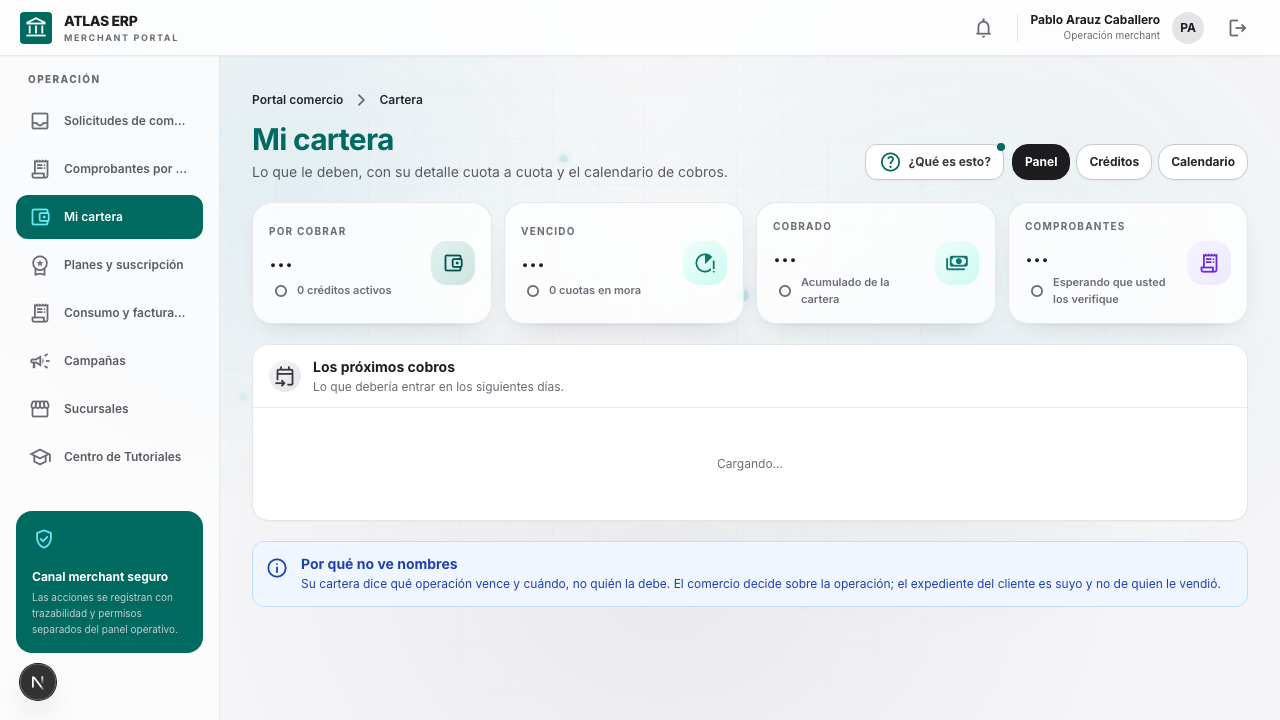
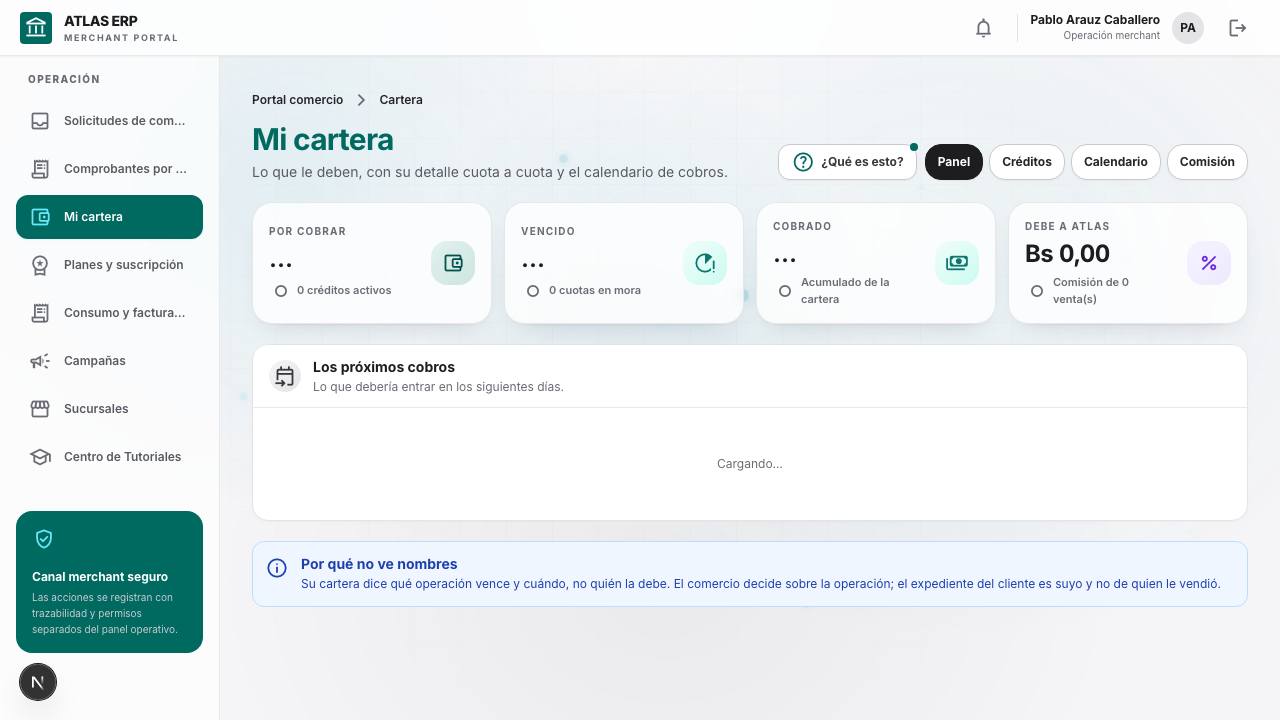
feat(comision): se pacta en el alta y el comercio ve lo que debe
La comision se configura DENTRO del onboarding, no en una pantalla suelta: es
parte de lo que se acuerda con el comercio antes de que opere. Activarlo sin
haberla pactado deja la primera venta cobrando lo que hubiera por defecto, y esa
conversacion ya no se puede tener hacia atras.

Las tres dimensiones son opcionales y ahi esta toda la flexibilidad: sin ninguna es
la tarifa base; con categoria cobra distinto la electronica que la farmacia; con
sucursal distingue una cara de una barata; con segmento de riesgo cobra mas por el
credito que mas riesgo trae. Se combinan libremente y gana la mas especifica.

Piso y techo con su porque a la vista: una venta de Bs 20 al 3 % deja Bs 0,60, que
no paga ni procesarla; una de Bs 50.000 al 3 % son Bs 1.500 que ningun comercio
acepta sin limite.

En el portal del comercio, «Mi cartera» gana la vista Comision: cuanto se le cobro
en total, cuanto DEBE —lo que sigue abierto— y el detalle venta a venta. La cuarta
tarjeta del resumen pasa a ser «Debe a Atlas», que es la cifra que mas pregunta.

Dos pruebas nuevas contra el backend real y sus capturas. Verificado con datos
reales: Bs 52,50 sobre una venta de Bs 1.500, que es el 3,5 % pactado.

Changed region(s): [[0.625, 0.1833, 0.9688, 0.275], [0.7812, 0.3056, 0.9062, 0.4278], [0.9375, 0.3361, 0.9688, 0.3972]]

diff --git a/components/screens/MdrRulesPanel.tsx b/components/screens/MdrRulesPanel.tsx
@@ -1,0 +1,152 @@
+'use client';
+
+import { useCallback, useEffect, useState } from 'react';
+import { AtlasButton } from '@/components/atlas/AtlasButton';
+import { FormField } from '@/components/atlas/FormField';
+import { InlineNotice } from '@/components/atlas/InlineNotice';
+import { Panel } from '@/components/atlas/Panel';
+import { StatusPill } from '@/components/atlas/StatusPill';
+import { useAtlasMutation } from '@/hooks/useAtlasMutation';
+import { useOptions } from '@/hooks/useOptions';
+import { b2bService } from '@/services/b2bService';
+import { merchantCategoryOptions, riskTierOptions } from '@/lib/catalogs';
+import { loadContracts2 } from '@/services/optionLoaders';
+import type { JsonObject, ResourceRow } from '@/services/types';
+
+const CUALQUIERA = { label: '— Cualquiera —', value: '' };
+
+/**
+ * Cuánto le cobra Atlas al comercio por cada venta, y en qué casos.
+ *
+ * Se configura AQUÍ, en el alta, porque es parte de lo que se pacta con el comercio antes de que
+ * opere: activarlo sin haber acordado la comisión deja la primera venta cobrando lo que hubiera por
+ * defecto, y esa conversación ya no se puede tener hacia atrás.
+ *
+ * Las tres dimensiones son opcionales y ahí está toda la flexibilidad: una regla sin ninguna es la
+ * tarifa base; con categoría cobra distinto la electrónica que la farmacia; con sucursal distingue
+ * una cara de una barata; con segmento de riesgo cobra más por el crédito que más riesgo trae. Se
+ * combinan libremente y **gana la más específica**, que es como las elige el motor al llegar la
+ * venta: por eso se listan en ese mismo orden y no por fecha.
+ */
+export function MdrRulesPanel() {
+  const contratos = useOptions(loadContracts2);
+  const [contractVersionId, setContractVersionId] = useState('');
+  const [reglas, setReglas] = useState<ResourceRow[]>([]);
+  const [cargando, setCargando] = useState(false);
+  const [error, setError] = useState<string | null>(null);
+
+  const crear = useAtlasMutation(useCallback((body: JsonObject) => b2bService.createMdrRule(body), []));
+  const cambiar = useAtlasMutation(useCallback(({ id, body }: { id: string; body: JsonObject }) => b2bService.updateMdrRule(id, body), []));
+
+  const recargar = useCallback(async (versionId: string) => {
+    if (!versionId) { setReglas([]); return; }
+    setCargando(true);
+    try {
+      setReglas(await b2bService.listMdrRules(versionId));
+      setError(null);
+    } catch (fallo) {
+      setError(fallo instanceof Error ? fallo.message : 'No fue posible leer las reglas.');
+    } finally {
+      setCargando(false);
+    }
+  }, []);
+
+  useEffect(() => { void recargar(contractVersionId); }, [contractVersionId, recargar]);
+
+  async function agregar(evento: React.FormEvent<HTMLFormElement>) {
+    evento.preventDefault();
+    const form = new FormData(evento.currentTarget);
+    const opcional = (clave: string) => String(form.get(clave) ?? '').trim() || undefined;
+    const numero = (clave: string) => {
+      const bruto = String(form.get(clave) ?? '').trim();
+      return bruto === '' ? undefined : Number(bruto);
+    };
+    try {
+      await crear.execute({
+        contractVersionId,
+        ratePercent: Number(form.get('ratePercent') ?? 0),
+        productCategory: opcional('productCategory'),
+        riskSegment: opcional('riskSegment'),
+        minFeeAmount: numero('minFeeAmount'),
+        maxFeeAmount: numero('maxFeeAmount'),
+      });
+      evento.currentTarget.reset();
+      await recargar(contractVersionId);
+    } catch { /* mostrado abajo */ }
+  }
+
+  async function alternar(regla: ResourceRow) {
+    try {
+      await cambiar.execute({ id: String(regla.id), body: { isActive: !regla.isActive } });
+      await recargar(contractVersionId);
+    } catch { /* mostrado abajo */ }
+  }
+
+  return (
+    <Panel
+      data-tutorial-id="mdr-reglas"
+      title="Comisión por venta (MDR)"
+      description="Lo que Atlas cobra al comercio por cada venta. Se acuerda en el alta, antes de que opere."
+      icon="percent"
+    >
+      <FormField
+        kind="select"
+        label="Versión contractual"
+        name="contractVersionId"
+        value={contractVersionId}
+        onChange={(evento) => setContractVersionId(evento.target.value)}
+        options={[{ label: contratos.length ? '— Elija el contrato —' : '— No hay contratos —', value: '' }, ...contratos]}
+        hint="La comisión cuelga de la versión del contrato: cambiarla es una versión nueva, no una edición."
+      />
+
+      {error ? <InlineNotice className="mt-3" tone="danger">{error}</InlineNotice> : null}
+
+      {contractVersionId ? (
+        <>
+          <form onSubmit={agregar} className="mt-4 grid gap-3 rounded-md bg-slate-50 p-3 md:grid-cols-3">
+            <FormField label="Comisión (%)" name="ratePercent" type="number" step="0.01" min="0" max="100" required placeholder="3.50" />
+            <FormField kind="select" label="Categoría de producto" name="productCategory" options={[CUALQUIERA, ...merchantCategoryOptions]} hint="Vacío: aplica a todas." />
+            <FormField kind="select" label="Segmento de riesgo" name="riskSegment" options={[CUALQUIERA, ...riskTierOptions]} hint="Vacío: aplica a todos." />
+            <FormField label="Piso (Bs)" name="minFeeAmount" type="number" step="0.01" min="0" hint="Una venta de Bs 20 al 3 % deja Bs 0,60." />
+            <FormField label="Techo (Bs)" name="maxFeeAmount" type="number" step="0.01" min="0" hint="Evita comisiones desproporcionadas en ventas grandes." />
+            <div className="flex items-end">
+              <AtlasButton type="submit" icon="add" loading={crear.isLoading} className="w-full">Agregar regla</AtlasButton>
+            </div>
+            {crear.error ? <div className="md:col-span-3"><InlineNotice tone="danger">{crear.error}</InlineNotice></div> : null}
+          </form>
+
+          <div className="mt-4">
+            {cargando ? <p className="py-6 text-center text-xs text-slate-500">Cargando…</p>
+              : reglas.length === 0 ? <p className="py-6 text-center text-xs text-slate-500">Sin reglas: se usará el término MDR del contrato.</p>
+              : (
+                <div className="table-scroll rounded-lg border border-slate-200">
+                  <table className="w-full min-w-[720px] text-left text-xs">
+                    <thead className="bg-slate-50 text-[10px] uppercase text-slate-500"><tr><th className="p-2.5">Comisión</th><th className="p-2.5">Categoría</th><th className="p-2.5">Segmento</th><th className="p-2.5 text-right">Piso</th><th className="p-2.5 text-right">Techo</th><th className="p-2.5">Estado</th><th className="p-2.5" /></tr></thead>
+                    <tbody className="divide-y divide-slate-100">
+                      {reglas.map((regla) => (
+                        <tr key={String(regla.id)} className={regla.isActive ? '' : 'opacity-50'}>
+                          <td className="p-2.5 font-extrabold">{Number(regla.ratePercent).toFixed(2)} %</td>
+                          <td className="p-2.5 text-slate-600">{String(regla.productCategory ?? 'Cualquiera')}</td>
+                          <td className="p-2.5 text-slate-600">{String(regla.riskSegment ?? 'Cualquiera')}</td>
+                          <td className="p-2.5 text-right text-slate-600">{regla.minFeeAmount ? `Bs ${Number(regla.minFeeAmount).toFixed(2)}` : '—'}</td>
+                          <td className="p-2.5 text-right text-slate-600">{regla.maxFeeAmount ? `Bs ${Number(regla.maxFeeAmount).toFixed(2)}` : '—'}</td>
+                          <td className="p-2.5"><StatusPill tone={regla.isActive ? 'success' : 'neutral'}>{regla.isActive ? 'Activa' : 'Inactiva'}</StatusPill></td>
+                          <td className="p-2.5 text-right"><AtlasButton variant="secondary" onClick={() => void alternar(regla)}>{regla.isActive ? 'Desactivar' : 'Activar'}</AtlasButton></td>
+                        </tr>
+                      ))}
+                    </tbody>
+                  </table>
+                </div>
+              )}
+          </div>
+
+          <InlineNotice className="mt-4" tone="info" title="Gana la más específica">
+            Se listan en el orden en que el motor las elige al llegar una venta: primero las que
+            distinguen sucursal, luego categoría, luego segmento de riesgo. Una regla general no
+            anula a una segmentada — la segmentada gana.
+          </InlineNotice>
+        </>
+      ) : null}
+    </Panel>
+  );
+}

diff --git a/components/screens/MerchantPortfolioScreen.tsx b/components/screens/MerchantPortfolioScreen.tsx
@@ -10,9 +10,10 @@ import { StatusPill } from '@/components/atlas/StatusPill';
 import { WorkspaceHeader } from '@/components/atlas/WorkspaceHeader';
 import { formatBob } from '@/lib/formatters';
 import { merchantCreditService } from '@/services/merchantCreditService';
+import { portalService } from '@/services/portalService';
 import type { Cartera, CreditoDeCartera } from '@/services/merchantCreditService';
 
-type Vista = 'panel' | 'creditos' | 'calendario';
+type Vista = 'panel' | 'creditos' | 'calendario' | 'comision';
 
 const fecha = (valor: string) => new Date(`${valor}T12:00:00`).toLocaleDateString('es-BO', { weekday: 'short', day: '2-digit', month: 'short' });
 
@@ -35,6 +36,17 @@ export function MerchantPortfolioScreen() {
   const [error, setError] = useState<string | null>(null);
   const [vista, setVista] = useState<Vista>('panel');
   const [abierto, setAbierto] = useState<string | null>(null);
+  /* Lo que el comercio le debe a Atlas por usar el servicio: la comision de cada venta. */
+  const [comision, setComision] = useState<Awaited<ReturnType<typeof portalService.commissions>> | null>(null);
+
+  useEffect(() => {
+    let cancelado = false;
+    portalService
+      .commissions()
+      .then((resultado) => { if (!cancelado) setComision(resultado); })
+      .catch(() => { if (!cancelado) setComision(null); });
+    return () => { cancelado = true; };
+  }, []);
 
   const cargar = useCallback(async (partnerId: string) => {
     setCargando(true);
@@ -78,9 +90,9 @@ export function MerchantPortfolioScreen() {
         description={`Lo que le deben${nombre ? ` a ${nombre}` : ''}, con su detalle cuota a cuota y el calendario de cobros.`}
         actions={
           <div className="flex gap-1.5">
-            {(['panel', 'creditos', 'calendario'] as Vista[]).map((opcion) => (
+            {(['panel', 'creditos', 'calendario', 'comision'] as Vista[]).map((opcion) => (
               <AtlasButton key={opcion} variant={vista === opcion ? 'primary' : 'secondary'} onClick={() => setVista(opcion)}>
-                {opcion === 'panel' ? 'Panel' : opcion === 'creditos' ? 'Créditos' : 'Calendario'}
+                {opcion === 'panel' ? 'Panel' : opcion === 'creditos' ? 'Créditos' : opcion === 'calendario' ? 'Calendario' : 'Comisión'}
               </AtlasButton>
             ))}
           </div>
@@ -93,7 +105,7 @@ export function MerchantPortfolioScreen() {
         <MetricCard label="Por cobrar" value={cargando ? '…' : formatBob(Number(resumen?.outstanding ?? 0))} detail={`${resumen?.activeCredits ?? 0} créditos activos`} icon="account_balance_wallet" />
         <MetricCard label="Vencido" value={cargando ? '…' : formatBob(Number(resumen?.overdueAmount ?? 0))} detail={`${resumen?.overdueInstallments ?? 0} cuotas en mora`} icon="running_with_errors" tone={Number(resumen?.overdueAmount ?? 0) > 0 ? 'amber' : 'teal'} />
         <MetricCard label="Cobrado" value={cargando ? '…' : formatBob(Number(resumen?.collected ?? 0))} detail="Acumulado de la cartera" icon="payments" tone="teal" />
-        <MetricCard label="Comprobantes" value={cargando ? '…' : (resumen?.proofsAwaitingVerification ?? 0)} detail="Esperando que usted los verifique" icon="receipt_long" tone="purple" />
+        <MetricCard label="Debe a Atlas" value={formatBob(Number(comision?.summary.owedToAtlas ?? 0))} detail={`Comisión de ${comision?.summary.salesCharged ?? 0} venta(s)`} icon="percent" tone="purple" />
       </div>
 
       {vista === 'panel' ? (
@@ -188,6 +200,50 @@ export function MerchantPortfolioScreen() {
                 ))}
               </div>
             )}
+        </Panel>
+      ) : null}
+
+      {vista === 'comision' ? (
+        <Panel data-tutorial-id="cartera-comision" title="Comisión por venta" description="Lo que Atlas le cobra por usar el servicio, venta a venta." icon="percent">
+          <div className="mb-4 grid gap-3 sm:grid-cols-3">
+            <div className="rounded-md bg-slate-50 p-3">
+              <p className="text-[10px] font-bold uppercase tracking-wide text-slate-500">Cobrado en total</p>
+              <p className="mt-1 text-xl font-extrabold">{formatBob(Number(comision?.summary.chargedTotal ?? 0))}</p>
+            </div>
+            <div className="rounded-md bg-slate-50 p-3">
+              <p className="text-[10px] font-bold uppercase tracking-wide text-slate-500">Debe a Atlas</p>
+              <p className="mt-1 text-xl font-extrabold">{formatBob(Number(comision?.summary.owedToAtlas ?? 0))}</p>
+              <p className="text-[11px] text-slate-500">Lo que sigue abierto</p>
+            </div>
+            <div className="rounded-md bg-slate-50 p-3">
+              <p className="text-[10px] font-bold uppercase tracking-wide text-slate-500">Ya saldado</p>
+              <p className="mt-1 text-xl font-extrabold">{formatBob(Number(comision?.summary.settled ?? 0))}</p>
+            </div>
+          </div>
+          {(comision?.commissions ?? []).length === 0 ? (
+            <p className="py-6 text-center text-xs text-slate-500">Todavía no se le cobró comisión por ninguna venta.</p>
+          ) : (
+            <div className="table-scroll rounded-lg border border-slate-200">
+              <table className="w-full min-w-[620px] text-left text-xs">
+                <thead className="bg-slate-50 text-[10px] uppercase text-slate-500"><tr><th className="p-2.5">Emitida</th><th className="p-2.5">Vence</th><th className="p-2.5 text-right">Comisión</th><th className="p-2.5 text-right">Abierto</th><th className="p-2.5">Estado</th></tr></thead>
+                <tbody className="divide-y divide-slate-100">
+                  {(comision?.commissions ?? []).map((fila) => (
+                    <tr key={fila.id}>
+                      <td className="p-2.5 text-slate-600">{new Date(fila.issuedAt).toLocaleDateString('es-BO')}</td>
+                      <td className="p-2.5 text-slate-600">{fila.dueDate ? new Date(`${String(fila.dueDate).slice(0, 10)}T12:00:00`).toLocaleDateString('es-BO') : '—'}</td>
+                      <td className="p-2.5 text-right font-bold">{formatBob(Number(fila.amountCharged))}</td>
+                      <td className="p-2.5 text-right">{formatBob(Number(fila.amountOpen))}</td>
+                      <td className="p-2.5"><StatusPill tone={Number(fila.amountOpen) === 0 ? 'success' : 'warning'}>{fila.status}</StatusPill></td>
+                    </tr>
+                  ))}
+                </tbody>
+              </table>
+            </div>
+          )}
+          <InlineNotice className="mt-4" tone="info" title="De dónde sale este porcentaje">
+            La comisión se pactó en su alta y puede variar por categoría de producto, sucursal o
+            segmento de riesgo: cada venta paga la regla que le correspondía en ese momento.
+          </InlineNotice>
         </Panel>
       ) : null}
 

diff --git a/components/screens/OnboardingCaseScreen.tsx b/components/screens/OnboardingCaseScreen.tsx
@@ -11,6 +11,7 @@ import { Panel } from '@/components/atlas/Panel';
 import { StatusPill } from '@/components/atlas/StatusPill';
 import { WorkspaceHeader } from '@/components/atlas/WorkspaceHeader';
 import { useAtlasMutation } from '@/hooks/useAtlasMutation';
+import { MdrRulesPanel } from '@/components/screens/MdrRulesPanel';
 import { useOptions } from '@/hooks/useOptions';
 import type { Option } from '@/services/optionLoaders';
 import { loadB2BAccounts, loadChecklistItems, loadInternalUsers, loadOnboardingCases } from '@/services/optionLoaders';
@@ -81,6 +82,9 @@ export function OnboardingCaseScreen() {
             <div className="space-y-2">{items.map((item, index) => <div key={item.id} className="grid gap-2 rounded-md border border-slate-200 bg-slate-50 p-3 md:grid-cols-[160px_minmax(0,1fr)_36px]"><select className="h-9 rounded-md border border-slate-300 bg-white px-2 text-xs" value={item.itemType} onChange={(event) => updateItem(item.id, 'itemType', event.target.value)}><option>LEGAL</option><option>OPERATIONS</option><option>TECHNICAL</option><option>FINANCE</option></select><input className="h-9 rounded-md border border-slate-300 bg-white px-3 text-xs" value={item.description} required placeholder={`Descripción del requisito ${index + 1}`} onChange={(event) => updateItem(item.id, 'description', event.target.value)} /><button type="button" disabled={items.length === 1} className="grid h-9 place-items-center rounded text-red-600 hover:bg-red-50 disabled:opacity-30" onClick={() => setItems((current) => current.filter((entry) => entry.id !== item.id))}><Icon name="delete" className="text-[18px]" /></button></div>)}</div>
           </Panel>
           <div className="flex justify-end"><AtlasButton icon="send" type="submit" form="create-onboarding-form" loading={createMutation.isLoading}>Crear caso de onboarding</AtlasButton></div>
+          {/* La comisión se pacta en el alta: activar sin haberla acordado deja la primera venta
+              cobrando lo que hubiera por defecto, y esa conversación ya no se puede tener después. */}
+          <MdrRulesPanel />
         </div>
 
         <aside className="space-y-4 xl:sticky xl:top-20">

diff --git a/e2e/portal-comercio-real.spec.ts b/e2e/portal-comercio-real.spec.ts
@@ -148,7 +148,8 @@ test('la cartera resume, detalla y calendariza los cobros', async ({ page }) => 
   await expect(resumen.getByText(/por cobrar/i)).toBeVisible();
   await expect(resumen.getByText(/vencido/i).first()).toBeVisible();
   await expect(resumen.getByText(/cobrado/i)).toBeVisible();
-  await expect(resumen.getByText(/comprobantes/i)).toBeVisible();
+  // La cuarta tarjeta pasó a ser la comisión: es la cifra que el comercio pregunta más.
+  await expect(resumen.getByText(/debe a atlas/i)).toBeVisible();
   await sinErrores(page, 'cartera · panel');
   await page.screenshot({ path: `${EVIDENCIA}/01-panel.png`, fullPage: true });
 
@@ -163,6 +164,14 @@ test('la cartera resume, detalla y calendariza los cobros', async ({ page }) => 
   await expect(page.locator('[data-tutorial-id="cartera-calendario"]')).toBeVisible();
   await sinErrores(page, 'cartera · calendario');
   await page.screenshot({ path: `${EVIDENCIA}/03-calendario.png`, fullPage: true });
+
+  // Comision: cuanto se le cobra por venta y cuanto le debe a Atlas.
+  await page.getByRole('button', { name: /^comisión$/i }).click();
+  await expect(page.locator('[data-tutorial-id="cartera-comision"]')).toBeVisible();
+  await expect(page.getByText(/debe a atlas/i).first()).toBeVisible();
+  await expect(page.getByText(/de dónde sale este porcentaje/i)).toBeVisible();
+  await sinErrores(page, 'cartera · comisión');
+  await page.screenshot({ path: `${EVIDENCIA}/09-comision.png`, fullPage: true });
 
   // La cartera no revela a quién se le debe.
   await expect(page.getByText(/por qué no ve nombres/i)).toBeVisible();

diff --git a/e2e/operaciones-real.spec.ts b/e2e/operaciones-real.spec.ts
@@ -61,6 +61,18 @@ test('la activación muestra controles reales, no un 100 % dibujado', async ({ p
   await expect(page.locator('select[name="caseId"]')).toBeVisible();
 });
 
+test('la comisión por venta se configura en el alta, por segmento', async ({ page }) => {
+  await page.goto('/operaciones/crm/onboarding');
+  const panel = page.locator('[data-tutorial-id="mdr-reglas"]');
+  await expect(panel).toBeVisible({ timeout: 45_000 });
+
+  // Es parte del alta, no una pantalla suelta.
+  await expect(panel.getByText(/se acuerda en el alta/i)).toBeVisible();
+  // Y la segmentación es lo que la hace flexible.
+  await expect(panel.locator('select[name="contractVersionId"]')).toBeVisible();
+  await page.screenshot({ path: 'docs/visual-evidence/operaciones/01-comision-en-el-alta.png', fullPage: true });
+});
+
 test('ninguna pantalla interna pide escribir un UUID', async ({ page }) => {
   const rutas = [
     '/operaciones/crm/oportunidades',

diff --git a/services/portalService.ts b/services/portalService.ts
@@ -28,6 +28,14 @@ export const portalService = {
   subscribe(body: JsonObject) {
     return apiRequest<ResourceRow>('/portal/subscription', { method: 'POST', body });
   },
+  /** Lo que este comercio le debe a Atlas: la comision de cada venta. */
+  commissions(merchantAccountId?: string) {
+    const id = optionalUuid(merchantAccountId, 'el UUID de la cuenta merchant');
+    return apiRequest<{
+      summary: { chargedTotal: string; owedToAtlas: string; settled: string; salesCharged: number };
+      commissions: { id: string; purchaseId: string; amountCharged: string; amountOpen: string; currency: string; issuedAt: string; dueDate: string; status: string }[];
+    }>('/portal/commissions', { query: { merchantAccountId: id } });
+  },
   listBranches(accountId?: string) {
     const id = optionalUuid(accountId, 'el UUID de la cuenta merchant');
     return apiRequest<ResourceRow[]>('/portal/branches', { query: { accountId: id } });

diff --git a/services/b2bService.ts b/services/b2bService.ts
@@ -53,6 +53,17 @@ export const b2bService = {
   listApprovals(onlyPending = true) {
     return apiRequest<ResourceRow[]>('/b2b/proposals/approvals', { query: { onlyPending: onlyPending ? 'true' : 'false' } });
   },
+  /** Reglas de comision (MDR). No habia endpoint: solo se creaban por SQL. */
+  listMdrRules(contractVersionId?: string) {
+    return apiRequest<ResourceRow[]>('/b2b/contracts/mdr-rules', contractVersionId ? { query: { contractVersionId } } : {});
+  },
+  createMdrRule(body: JsonObject) {
+    return apiRequest<ResourceRow>('/b2b/contracts/mdr-rules', { method: 'POST', body });
+  },
+  updateMdrRule(ruleId: string, body: JsonObject) {
+    const id = requireUuidPathParam(ruleId, 'el UUID de la regla');
+    return apiRequest<ResourceRow>(`/b2b/contracts/mdr-rules/${id}`, { method: 'PATCH', body });
+  },
   listContracts() {
     return apiRequest<ResourceRow[]>('/b2b/contracts');
   },
